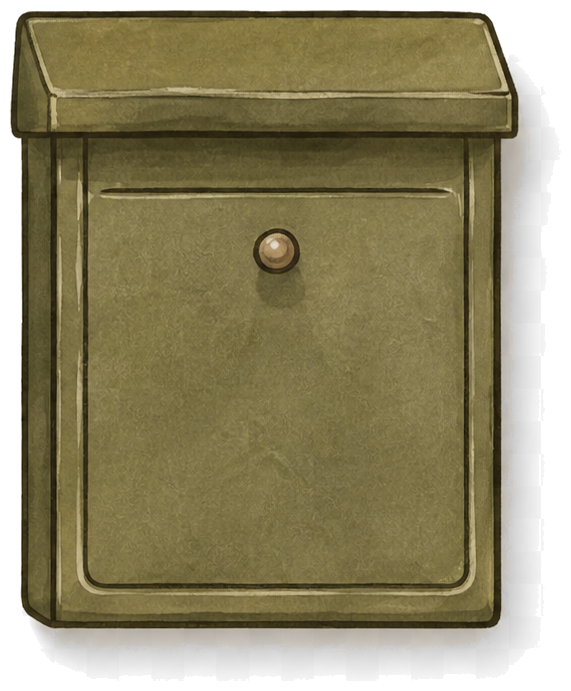
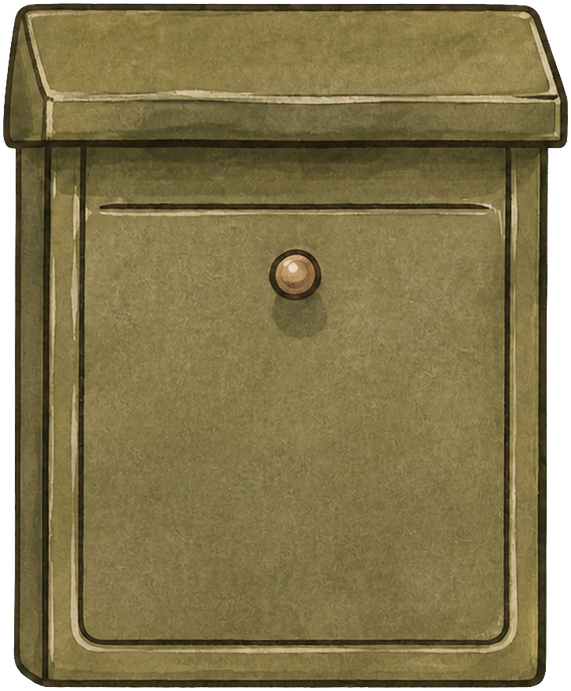
Update doorway mailbox artwork

diff --git a/src/client/assets/scenes/doorway/README.md b/src/client/assets/scenes/doorway/README.md
@@ -8,7 +8,7 @@ The doorway scene currently uses the shared 1456 × 816 source camera.
 | `door.png` | Yes, final art | Exterior side of the room door and the room-entry interaction. |
 | `lamp.png` | Yes, final art | Human-approved OFF-state wall lamp, regenerated from the `image-r007` design on a flat magenta background, chroma-keyed to real Alpha, and normalized to 486 × 669. |
 | `lamp-on.png` | Yes, final art | Human-approved ON-state wall lamp using `image-r005` as its lighting reference and normalized to the same 486 × 669 canvas. |
-| `mailbox.png` | Yes, final art | Mailbox as one transparent interactive layer. |
+| `mailbox.png` | Yes, final art | Human-approved mailbox regenerated from the `image-r007` design on a flat magenta background, chroma-keyed to real Alpha, edge-decontaminated, and normalized to 571 × 691. |
 
 The production arrangement mirrors `art-source/0.4.0/scenes/corridor/03-decompose/decomposition-r003/layout.json`. Interaction-state candidate history and approval evidence live under `art-source/0.4.0/scenes/corridor/05-interaction-states/`.
 
